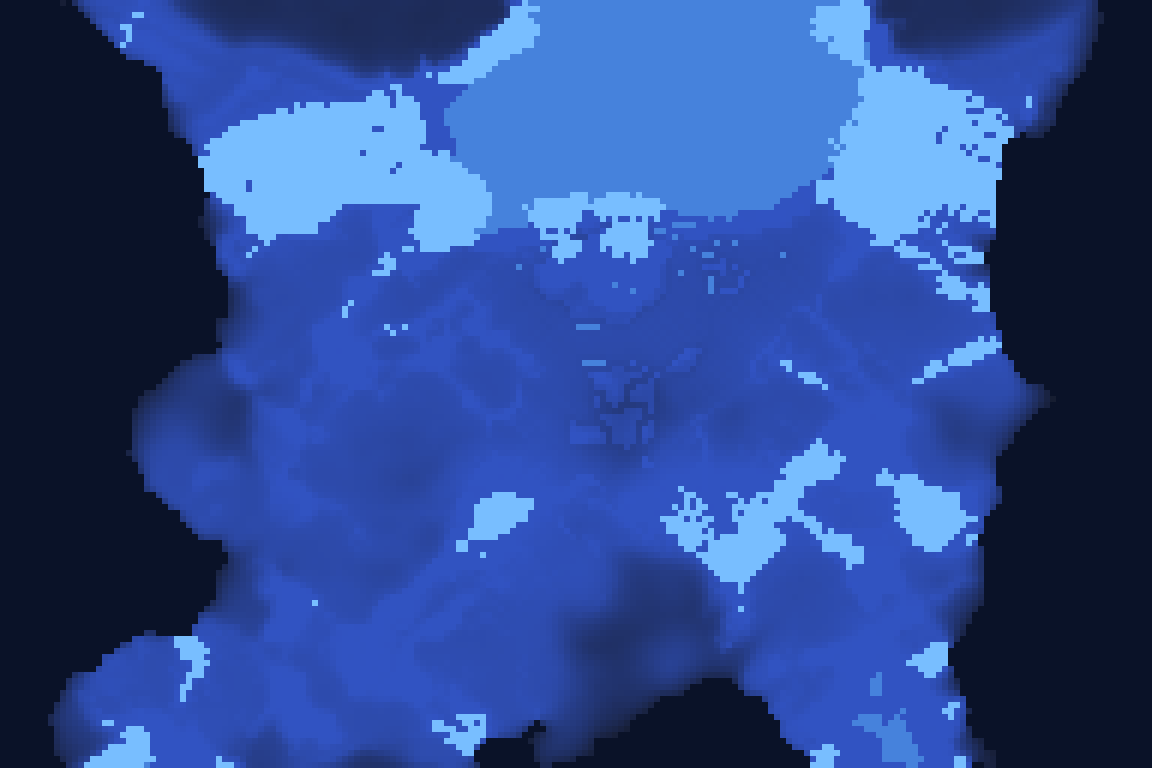
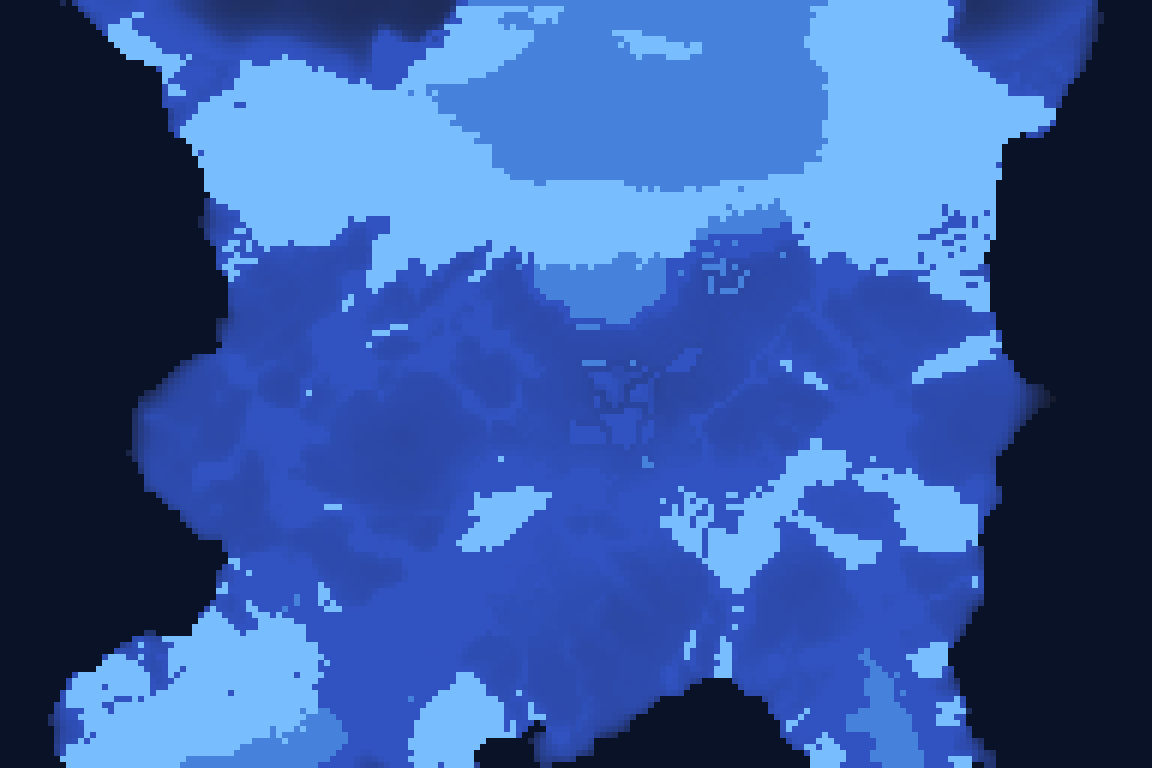
README: current engine — living waters, minds, moral economy, visible villages; new screenshots

diff --git a/tools/snapshot/src/main.rs b/tools/snapshot/src/main.rs
@@ -46,10 +46,16 @@ fn main() {
     for i in 0..w * h {
         px[i] = if g.ocean[i] {
             (16, 32, 64)
+        } else if g.ice_bears(i) {
+            (185, 210, 235)
         } else if g.is_river(i) || g.is_lake(i) {
             (52, 96, 168)
         } else if g.burning[i] > 0 {
             (235, 96, 32)
+        } else if g.crop_cover.get(i).copied().unwrap_or(0.0) > 0.15 {
+            (212, 178, 70)
+        } else if g.is_path(i) {
+            (150, 128, 96)
         } else if g.snow[i] > 0.02 {
             (222, 226, 234)
         } else if g.burn_scar[i] > 0.3 {

diff --git a/README_rust.md b/README_rust.md
@@ -48,6 +48,14 @@ density field.*
 
 ![Seed 7, year 6](screenshots_rust/s7y6_map.png)
 
+### The human mark
+
+*Seed 1 at year 4: golden wheat fields by the water, tan roads walked into existence by ten
+thousand footsteps, huts and storehouses (brown) — every one of them founded, built, and worn by
+a specific person on a specific day, queryable to the unit.*
+
+![Civilization visible, seed 1 year 4](screenshots_rust/y4civ_map.png)
+
 ---
 
 ## History is derived, not written
@@ -91,12 +99,15 @@ Year 3: a hare died of hunger
 
 | Layer | The truth underneath |
 |---|---|
-| **Water** | Rain fields → surface flow by hydraulic head (3 sub-steps/day) → infiltration → groundwater with downslope drainage → springs, evaporation, erosion. Rivers/lakes are *observations* (`is_river`/`is_lake`), never placed. |
-| **Plants** | Each an entity: own RNG stream, lifespan drawn at germination, growth from its cell's real water/light/nutrients, transpiration back into the aquifer, light competition, seeding real neighbor cells, winter dormancy, death always with a cause event. |
-| **Animals** | Each an individual: needs, condition, inherited genes, generation count, perception via spatial index only, one shared utility brain with **recorded rationale**, pursuit predation (dice only resolve a struggle that really closed distance), courtship, gestation with recorded sire, corpses that rot and feed the soil. |
-| **People** | Everything above plus: nutrition, personality, uncapped decaying memories, typed relationships formed only by real encounters, marriage → conception only when spouses are actually together, grief through real kin bonds, gathering/hunting/woodcutting/building/storing/sharing/farming that consume real world state, and techniques held in individual heads — taught along bonds, extinct if the last knower dies untaught. |
-| **Society** | Settlements *recognized* from real building clusters; beliefs originating in real memories and spreading in real conversations; raids from cited hunger or kin-death grievances — some seeds stay entirely peaceful. |
-| **History** | Append-only causal event graph, never capped, never pruned; consequences are a derived reverse index; text generated on demand. |
+| **Water & weather** | Rain fields → surface flow by hydraulic head → groundwater with downslope drainage → springs, evaporation, erosion. Rivers/lakes are *observations*, never placed. Ice grows on still winter water and bears weight (roads that exist only in the cold); wind carries fire downwind; floods expel waders and claim dwellings. |
+| **Plants** | Each an entity with **heritable genes** (yield, hardiness): growth from its cell's real water/light/nutrients, transpiration back into the aquifer, light competition, seeding real neighbors, winter dormancy, death always with a cause. Farmers keep seed from the finest heads — **domestication emerges from that choice**, compounding over generations. |
+| **Animals** | Each an individual: needs, condition, inherited genes, perception via spatial index only, one shared utility brain with **recorded rationale**, pursuit predation, courtship, gestation with recorded sire. **Trout live in the rivers** (following the falling water in dry season, sifting a real detritus column, boom-crashing like any population). Animals remember good ground and attack sites; starving bold predators stalk *people*, and witnesses carry the memory. Feeding a wild sheep day after day tames it; the herd is the winter larder. |
+| **Sickness** | Pathogens live in bodies: sparking only in real crowds on real wet ground, crossing only on real contacts (a conversation, a shared roof, butchering a kill, tending a beast), running a course against each host's health, killing with the case as cause, leaving immunity behind. |
+| **People — body** | Nutrition, exposure (winter without walls and a fed hearth kills), fatigue; food **rots** by real temperature and is saved by real smoke over real fires; carrying has limits; houses are raised over days of shared or private labor, weather into ruins, and shelter against beasts (a barred door more than doubles the defense). |
+| **People — mind** | Uncapped decaying memories; a **working map of the land** (food, water, danger) learned by living and traded in conversation — secondhand knowledge ages and misleads; **seasonal hunger schemas** that drive gathering and smoking *before* the lean months return; the past **retold and distorted by the listener** (fear amplifies, warmth softens) so a killer beast becomes a clan's sworn enemy in heads that never saw it — and kin hunt that specific animal by identity. |
+| **People — each other** | Typed relationships only from real encounters; marriage → conception only when spouses are together; grief through real kin bonds; **shared meals bind, stolen ones burn** (witnesses carry the thief's name into the grievances that feed raids); the mother-line is recognized and marriage looks outward, weaving bands together; techniques live in heads, taught along bonds, extinct with the last untaught knower. |
+| **Villages** | One capacity — *put your day's work into any project you benefit from* — and hamlets raise **common storehouses** (founded from surplus where homes cluster) and **palisade rings** (founded segment by segment by whoever carries the memories of violence — fear is the architect). Footsteps wear vegetation into desire lines that become **roads**; grass reclaims the unwalked. Settlements are *recognized* from real clusters; beliefs originate in real memories and spread in real conversations. |
+| **History** | Append-only causal event graph, never capped, never pruned; consequences a derived reverse index; all text generated on demand; every "why?" walks to physical or social state. |
 
 ## Guarantees (tested, not aspirational)
 
@@ -168,6 +179,22 @@ obituaries:
 - **Sana.** Felled two oaks, raised a dwelling, laid up food, befriended Mirvertal, founded a
   religion from her own grief — and died of hunger in Year 2. Her faith died with zero faithful;
   a rival's, *The Way of Belverbel*, got six. Her whole biography above is queried, not written.
+- **The world where one fish was born.** The first trout release seeded fish "wherever the water
+  was deep enough" — at a moment when, 240 simulated days into a young world's rain, almost
+  nowhere was. Census: one trout. It starved alone in year one, the only fish that ever lived
+  there. (The fix wasn't more fish; it was letting the world finish hydrating first.)
+- **Stranded silver.** The second trout release died differently: dry-season rivers shrank and
+  whole shoals died gasping in the shallows — until fish learned what real fish know: follow the
+  falling water to the deep pools.
+- **Frozen in sight of the frame.** Winter exposure landed with staged construction: people who
+  didn't finish their walls before the frost died beside the half-raised □ of their own house —
+  with a causal chain reading *temperature −14°, shelter: none*.
+- **The murrain in the fold.** Taming brought herds to the camps; herds brought crowding; and the
+  first zoonotic sickness crossed at the exact moment of care — feeding, tending, butchering.
+  Domestication and epidemic arrived as a package, uninstructed, exactly as they did for us.
+- **The clan's sworn enemy.** A bear killed a woman; her kin took up vengeance against that bear,
+  by identity — and the retelling spread the enmity to people who had never seen it, their fear
+  inflating its weight with each telling. The first legend was a grudge.
 
 None of these were scripted, none were patched by cheating — every fix was physical (drainage,
 dormancy, transpiration budgets, predator ratios, memory invalidation, provisioning). That's the
@@ -176,15 +203,18 @@ exactly why.**
 
 ## Honest state of the world
 
-The engine is complete through all eight stages, but two things are open (tracked in the
-[stage reports](docs/STAGE_REPORTS.md), see Stage 4):
+The engine is complete through all eight stages plus the survival-physics, biology, cognition,
+moral-economy, and village layers (see [`docs/ROADMAP.md`](docs/ROADMAP.md) for the full plan and
+[`docs/STAGE_REPORTS.md`](docs/STAGE_REPORTS.md) for the build history). Open, honestly:
 
-1. **Human lineages don't yet persist for centuries.** Founding bands live, build, marry, teach,
-   believe, and raise children — but most seeds decline within a decade (winter/spring food
-   gaps, local over-foraging). Every collapse is diagnosable from the engine's own event log,
-   which is the system working as designed. Candidate fixes are documented.
-2. **Markets, currencies, and armies-at-scale** aren't built yet; goods are honest stores and
-   conflict is band-scale feuding. Nothing pretends otherwise.
+1. **Lineage persistence is still seed-variable.** Some worlds now carry villages, herds, fields,
+   and second-generation families for decades; others fade within one. Survival sits on a real
+   knife-edge (as it did for actual foraging bands), and every collapse is diagnosable from the
+   event log. The demographic margin keeps widening with each capacity — hearths, smoking racks,
+   fish, shared granaries, learned foresight — never with a spawn or a stat.
+2. **Markets, currencies, factions, and armies-at-scale** aren't built yet: goods are honest
+   stores with real provenance pressure, and conflict is band-scale feuding. The capacities they
+   will emerge from (barter, deference, group raids) are next on the roadmap.
 
 ## Repository map
 
